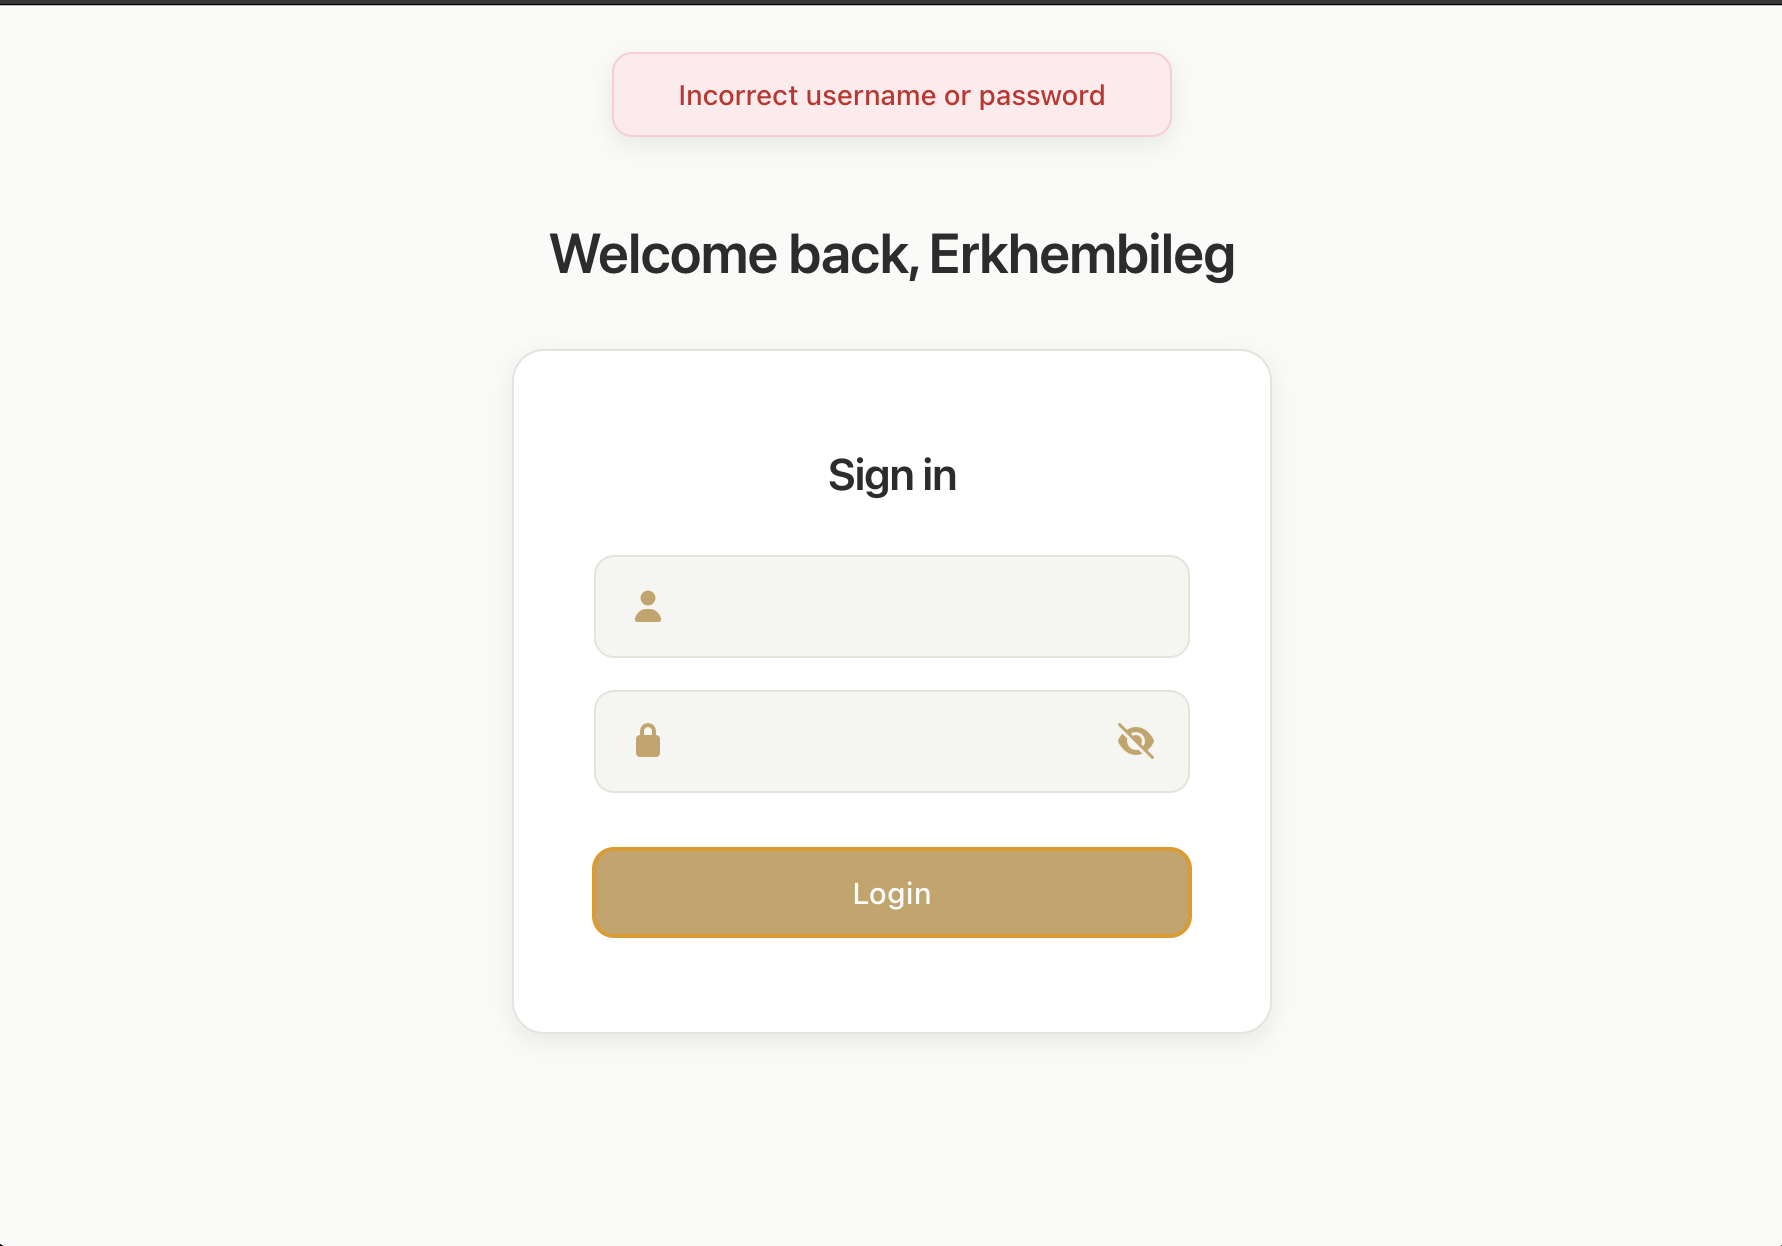
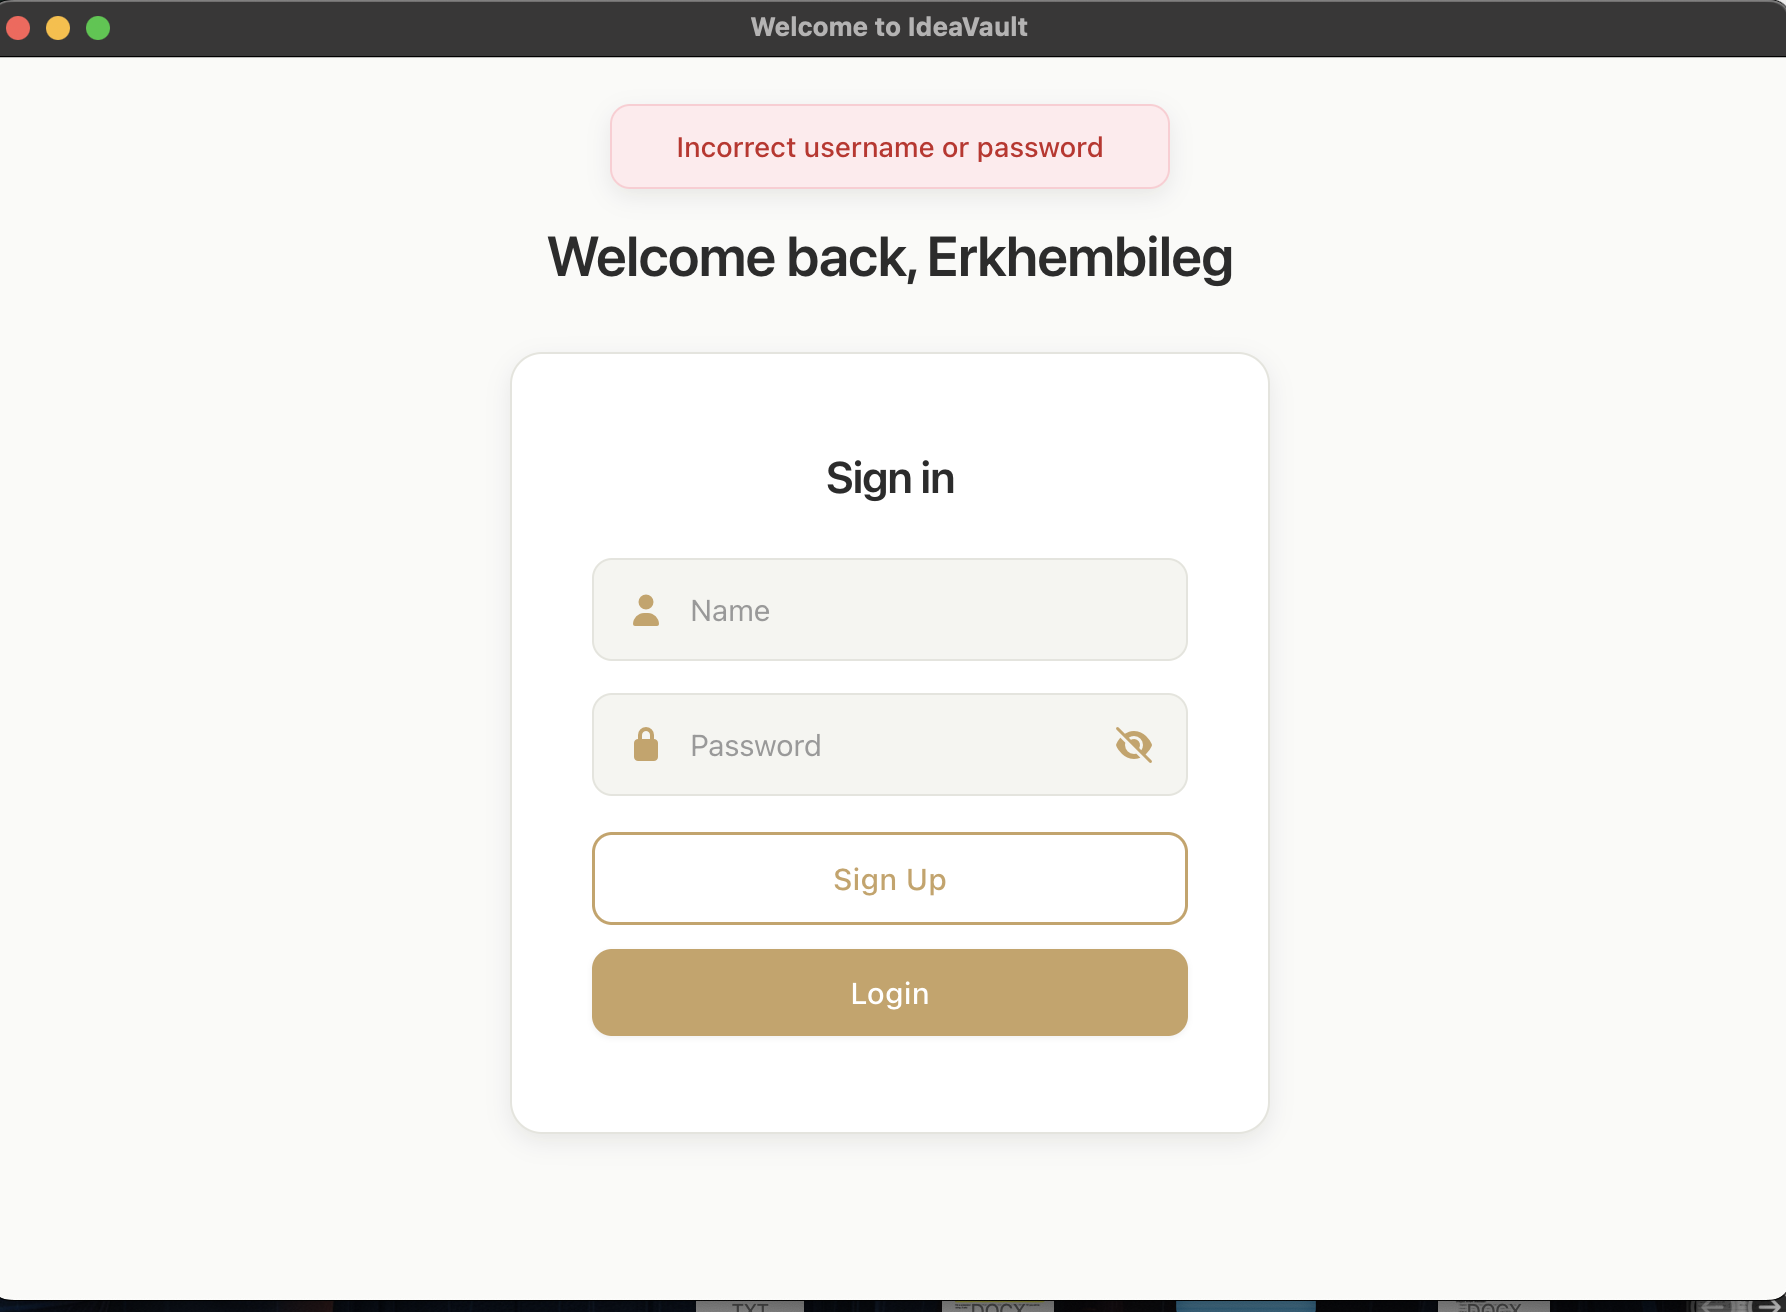
sign up backend completed

diff --git a/src/main.js b/src/main.js
@@ -16,8 +16,10 @@ const {
 } = require("docx");
 const { spawn } = require("child_process");
 
+
 let speechProcess = null;
 let mainWindow = null;
+let currentUserId = null;
 
 // Initialize Supabase client
 const supabaseUrl = process.env.SUPABASE_URL;
@@ -260,6 +262,7 @@ function registerIPCHandlers() {
             const valid = bcrypt.compareSync(password, data.password);
 
             if (valid) {
+                currentUserId = data.id; // Store the user ID
                 return { success: true, message: "Login successful" };
             } else {
                 return { success: false, message: "Wrong password" };
@@ -276,6 +279,7 @@ function registerIPCHandlers() {
             const { data, error } = await supabase
                 .from('notes')
                 .select('*')
+                .eq('user_id', currentUserId)
                 .order('updated_at', { ascending: false });
 
             if (error) {
@@ -312,6 +316,7 @@ function registerIPCHandlers() {
                 content: note.content,
                 created_at: note.createdAt,
                 updated_at: note.updatedAt,
+                user_id: currentUserId,
             }));
 
             const { error } = await supabase
@@ -336,7 +341,8 @@ function registerIPCHandlers() {
             const { error } = await supabase
                 .from('notes')
                 .delete()
-                .eq('id', noteId);
+                .eq('id', noteId)
+                .eq('user_id', currentUserId);
 
             if (error) {
                 console.error("Error deleting note:", error);
@@ -349,9 +355,35 @@ function registerIPCHandlers() {
             throw err;
         }
     });
+    ipcMain.handle("signup-attempt", async (event, { username, password }) => {
+        try {
+            const { data: existingUser, error: checkError } = await supabase.from('users').select('username').eq('username', username).single();
+            if (existingUser) {
+                return { success: false, message: "Username already exists" };
+            }
+            const hashedPassword = bcrypt.hashSync(password, 10);
 
+            // Insert new user
+            const { data, error } = await supabase.from('users').insert([
+                {
+                    username: username,
+                    password: hashedPassword
+                }
+            ]).select().single();
+            if (error) {
+                console.error("Signup error: ", error);
+                return { success: false, message: "Failed to create account" };
+            }
+            currentUserId = data.id;
+            return { success: true, message: "Account created successfully" };
+        } catch (err) {
+            console.error("Signup error: ", err);
+            return { success: false, message: "Server error" };
+        }
+    });
     // Handle quit app
     ipcMain.handle("quit-app", async () => {
+        currentUserId = null;
         app.quit();
     });
 

diff --git a/src/signup.js b/src/signup.js
@@ -21,13 +21,66 @@ function showError(message) {
 }
 
 // Password validation
-createBtn.addEventListener("click", () => {
+createBtn.addEventListener("click", async () => {
   const name = nameInput.value.trim();
   const password = passwordInput.value;
   const confirmPassword = confirmPasswordInput.value;
+  
+  // Clear any existing alerts
+  alertBox.style.display = "none";
+  alertBox.classList.remove("error", "success");
+  
+  if (!name) {
+    showError("Please enter a username");
+    return;
+  }
+  
+  if (name.length < 3) {
+    showError("Username must be at least 3 characters");
+    return;
+  }
+  
   if (password === "" || confirmPassword === "") {
     showError("Please enter your password");
-  } else if (password !== confirmPassword) {
+    return;
+  }
+  
+  if (password.length < 6) {
+    showError("Password must be at least 6 characters");
+    return;
+  }
+  
+  if (password !== confirmPassword) {
     showError("Password mismatch. Please try again.");
+    return;
+  }
+  
+  // Disable button during signup
+  createBtn.disabled = true;
+  createBtn.textContent = "Creating account...";
+  
+  try {
+    const response = await window.authAPI.signup(name, password);
+    
+    if (response.success) {
+      alertBox.classList.remove("error");
+      alertBox.classList.add("success");
+      alertBox.style.display = "block";
+      alertBox.textContent = "Account created successfully!";
+      
+      // Redirect to login after 1.5 seconds
+      setTimeout(() => {
+        window.location.href = "login.html";
+      }, 1500);
+    } else {
+      showError(response.message);
+      createBtn.disabled = false;
+      createBtn.textContent = "Create Account";
+    }
+  } catch (error) {
+    console.error("Signup error:", error);
+    showError("An error occurred. Please try again.");
+    createBtn.disabled = false;
+    createBtn.textContent = "Create Account";
   }
 });

diff --git a/src/signup.html b/src/signup.html
@@ -5,10 +5,8 @@
     <meta name="viewport" content="width=device-width, initial-scale=1.0" />
     <title>Create Account | IdeaVault</title>
 
-    <!-- CSS -->
     <link rel="stylesheet" href="signup.css" />
 
-    <!-- Font Awesome -->
     <link
       rel="stylesheet"
       href="https://cdnjs.cloudflare.com/ajax/libs/font-awesome/7.0.1/css/all.min.css"
@@ -20,11 +18,11 @@
     <h1>Create your IdeaVault account</h1>
 
     <div class="card">
-      <h2>Sign Up</h2>
+      <h2 style="text-align: center">Sign Up</h2>
 
       <div class="input-group">
         <i class="fa-solid fa-user"></i>
-        <input type="text" placeholder="Preferred Name" id="name" />
+        <input type="text" placeholder="Name" id="name" />
       </div>
 
       <div class="input-group">

diff --git a/src/preload.js b/src/preload.js
@@ -6,6 +6,8 @@ contextBridge.exposeInMainWorld("authAPI", {
   //  AUTH 
   login: (username, password) =>
     ipcRenderer.invoke("login-attempt", { username, password }),
+  signup: (username, password) =>
+    ipcRenderer.invoke("signup-attempt", { username, password }),
 
   //  NOTES 
   load: () => ipcRenderer.invoke("load-notes"),

diff --git a/src/login.html b/src/login.html
@@ -14,7 +14,7 @@
     />
   </head>
   <body>
-    <h1>Welcome back, Erkhembileg</h1>
+    <h1>Welcome back</h1>
     <!--Username, Password part-->
     <div class="border">
       <h2 class="sign-in-text">Sign in</h2>

diff --git a/src/login.js b/src/login.js
@@ -45,6 +45,6 @@ async function checkPasswordandUsername() {
   }
 }
 
-signUp.addEventListener("click", function () {
+signUp.addEventListener("click", async function () {
   window.location.href = "signup.html";
 });

diff --git a/README.md b/README.md
@@ -1,11 +1,10 @@
-#     IdeaVault
+# IdeaVault
 
-Welcome to **IdeaVault v2.0.0**!  
----
+## Welcome to **IdeaVault v2.0.0**!
+
 A simple desktop app for organizing notes and securely storing personal information. Future versions will support multiple users.
 
-
-##   Features
+## Features
 
 - **Secure Login** with bcrypt password hashing
 - **Auto-Save** to prevent data loss
@@ -14,7 +13,7 @@ A simple desktop app for organizing notes and securely storing personal informat
 
 ---
 
-##   Tech Stack
+## Tech Stack
 
 Electron.js • PostgreSQL • bcrypt.js • Node.js
 
@@ -24,29 +23,29 @@ Electron.js • PostgreSQL • bcrypt.js • Node.js
 
 **Requirements:** macOS (ARM64), Internet connection
 
-
 1. Download **v2.0.0** from [Releases](https://github.com/Lumb3/IdeaVault/releases/tag/second_release)
 2. Extract `IdeaVault.zip` and open the `mac-arm64` folder
-3. Double-click **IdeaVault** to launch 
+3. Double-click **IdeaVault** to launch
 
 > **macOS Note:** First-time users may need to right-click → "Open" to bypass Gatekeeper. <a href="https://www.youtube.com/watch?v=_M9RKS_i11I">Check this video out!</a>
 
 ---
 
-##   Quick Start
+## Quick Start
 
-1. Launch the app and log in using the provided credentials  
-2. Click **+** to create a new note  
-3. Select a note to format it with **bold**, *italic*, <u>underline</u>, or highlighter  
-4. Use the **Exit** button to ensure your data is saved properly  
+1. Launch the app and log in using the provided credentials
+2. Click **+** to create a new note
+3. Select a note to format it with **bold**, _italic_, <u>underline</u>, or highlighter
+4. Use the **Exit** button to ensure your data is saved properly
 
 ---
 
-##   Preview
+## Preview
 
 <p align="center">
   <img src="imgs/login.png" width="500" alt="Login Page"> 
   <img src="imgs/incorrect.png" width="500" alt="Wrong Password">
+  <img src="imgs/signup.png" width="500" alt="Sign Up">
   <img src="imgs/example.png" width="500" alt="Main Page">
   <img src="imgs/dark.png" width="500" alt="Dark Mode">
   <img src="imgs/download.png" width="500" alt="Download Format">
@@ -57,13 +56,12 @@ Electron.js • PostgreSQL • bcrypt.js • Node.js
 ## Contributing Guidelines
 
 1. Fork the project
-2. Create a feature branch (```git checkout -b ...```)
-3. Commit your changes (```git commit -m "..."```)
-4. Push to the branch (```git push origin ...```)
+2. Create a feature branch (`git checkout -b ...`)
+3. Commit your changes (`git commit -m "..."`)
+4. Push to the branch (`git push origin ...`)
 5. Open a pull request
 
-
-##   Planned Features
+## Planned Features
 
 - Multi-user support with Supabase authentication
 - Note tagging and search functionality
@@ -74,7 +72,7 @@ Electron.js • PostgreSQL • bcrypt.js • Node.js
 
 ---
 
-##   License
+## License
 
 MIT License - see [LICENSE](LICENSE) for details.
 
